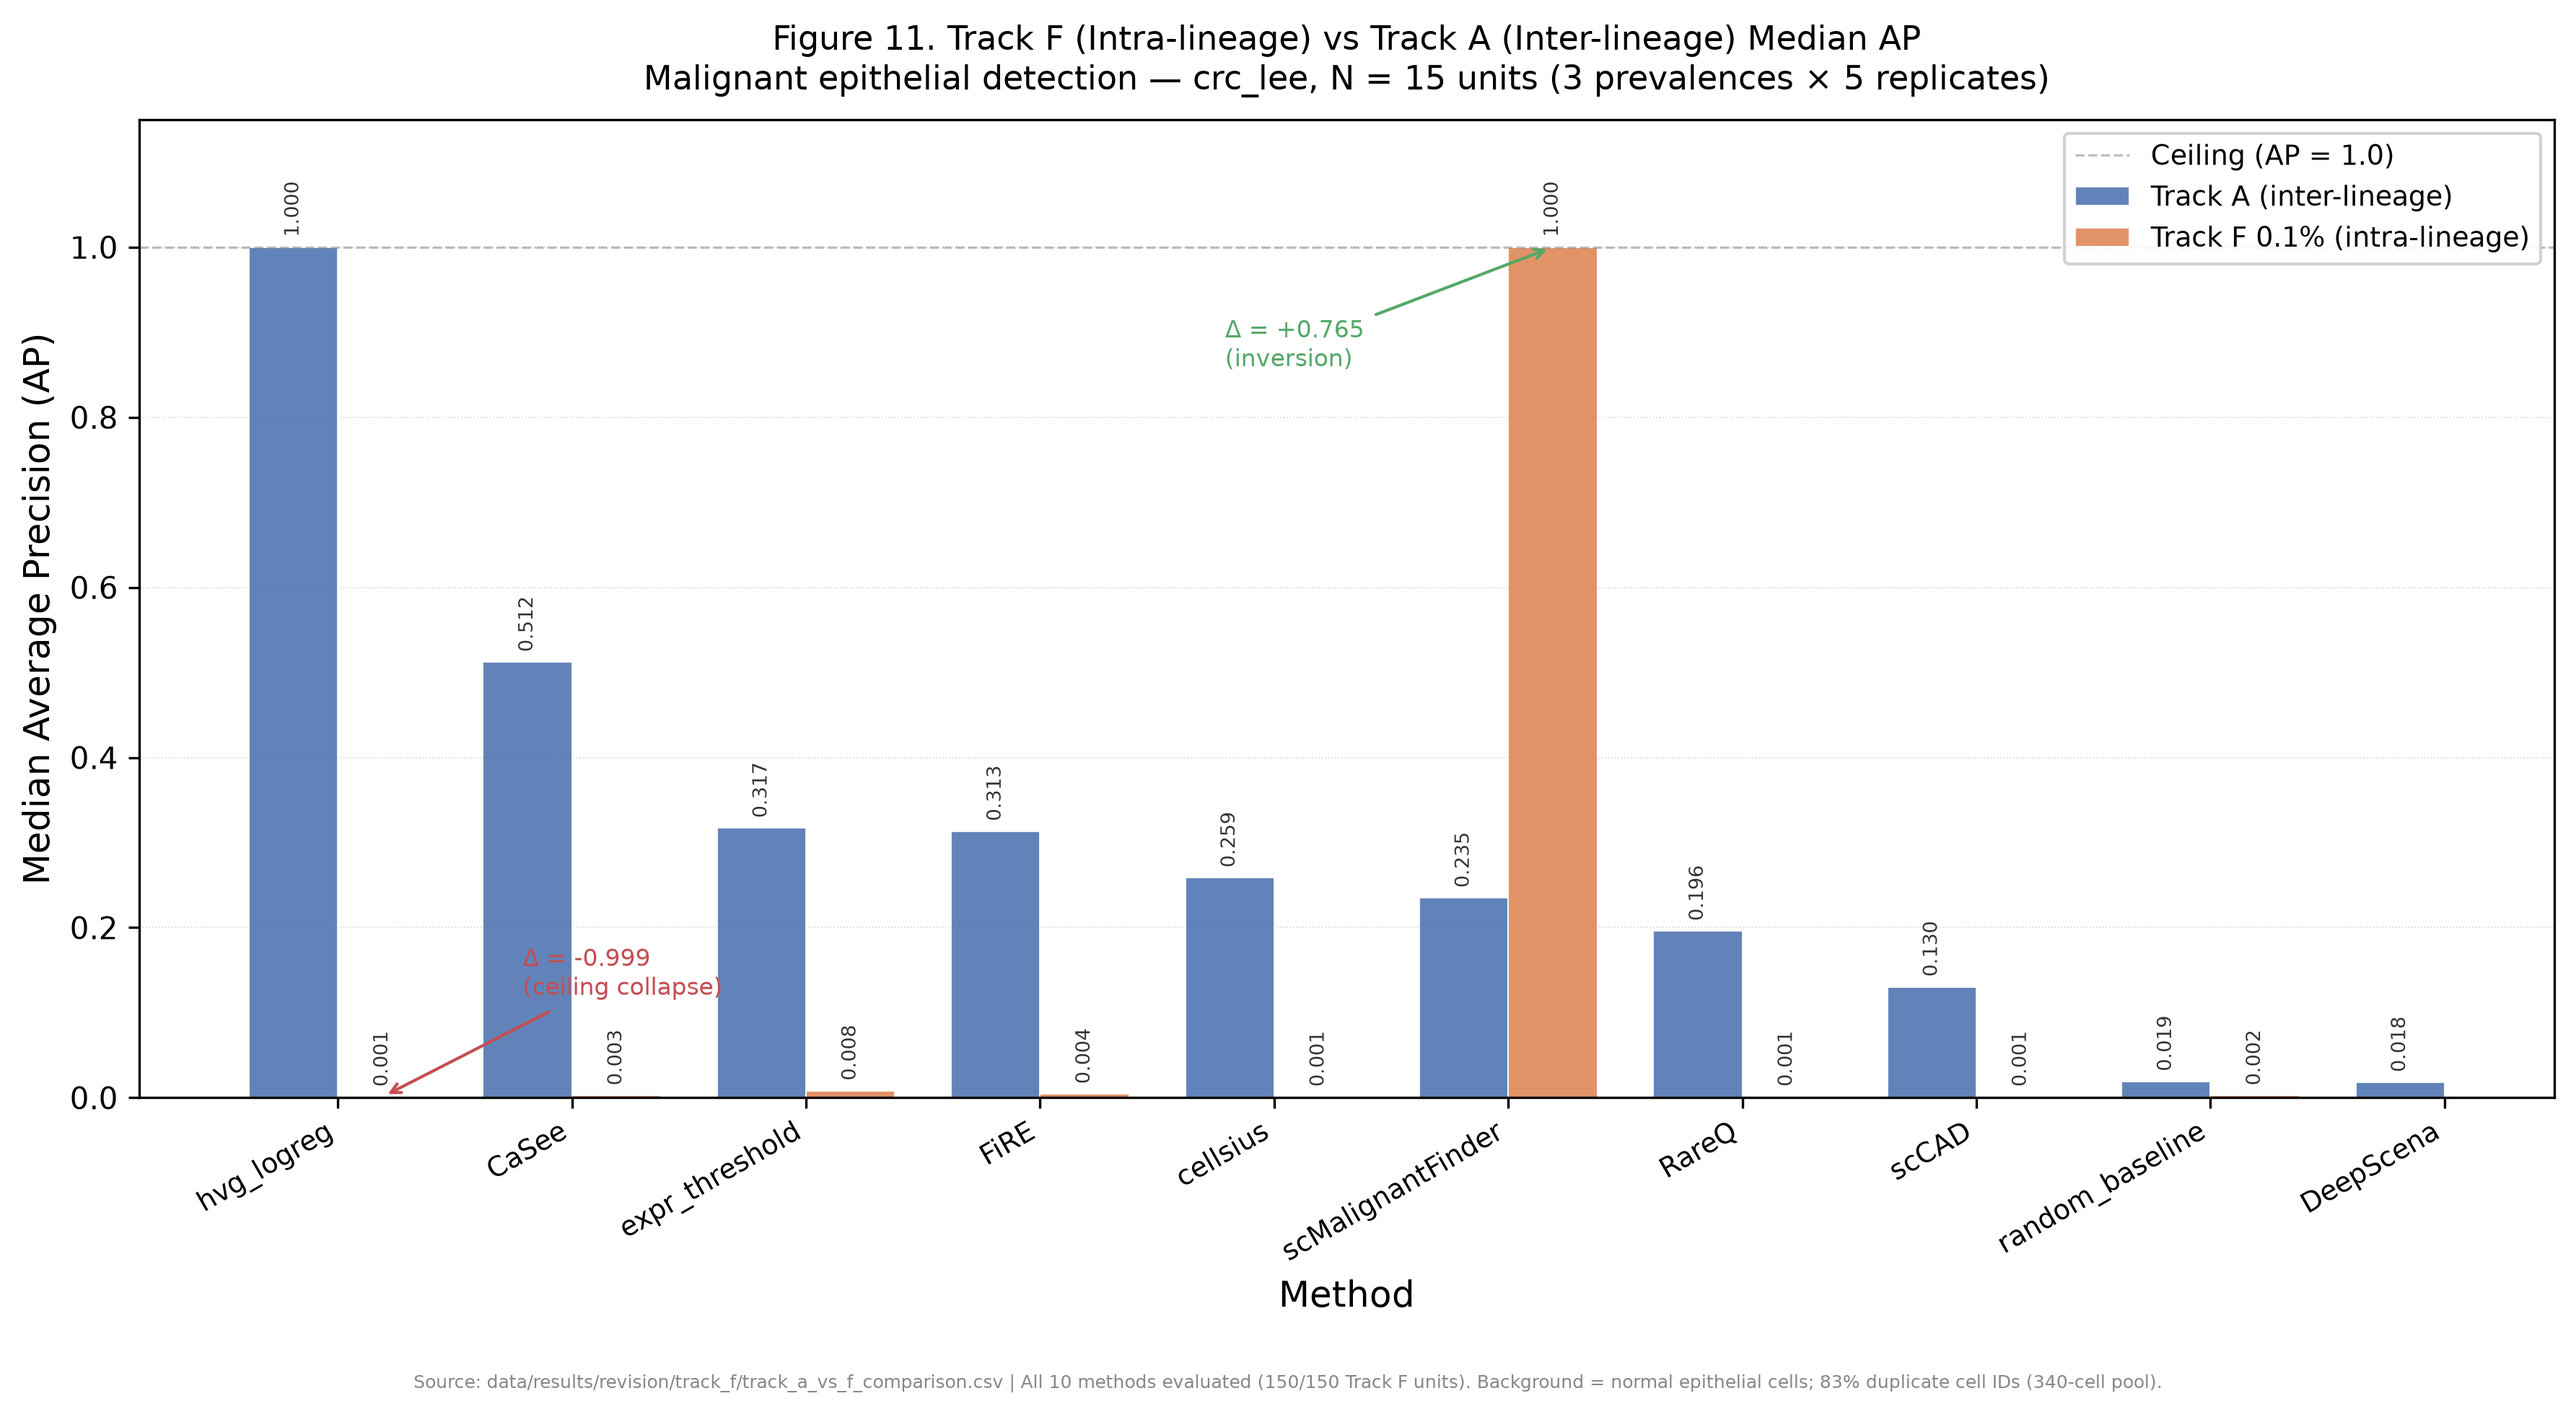
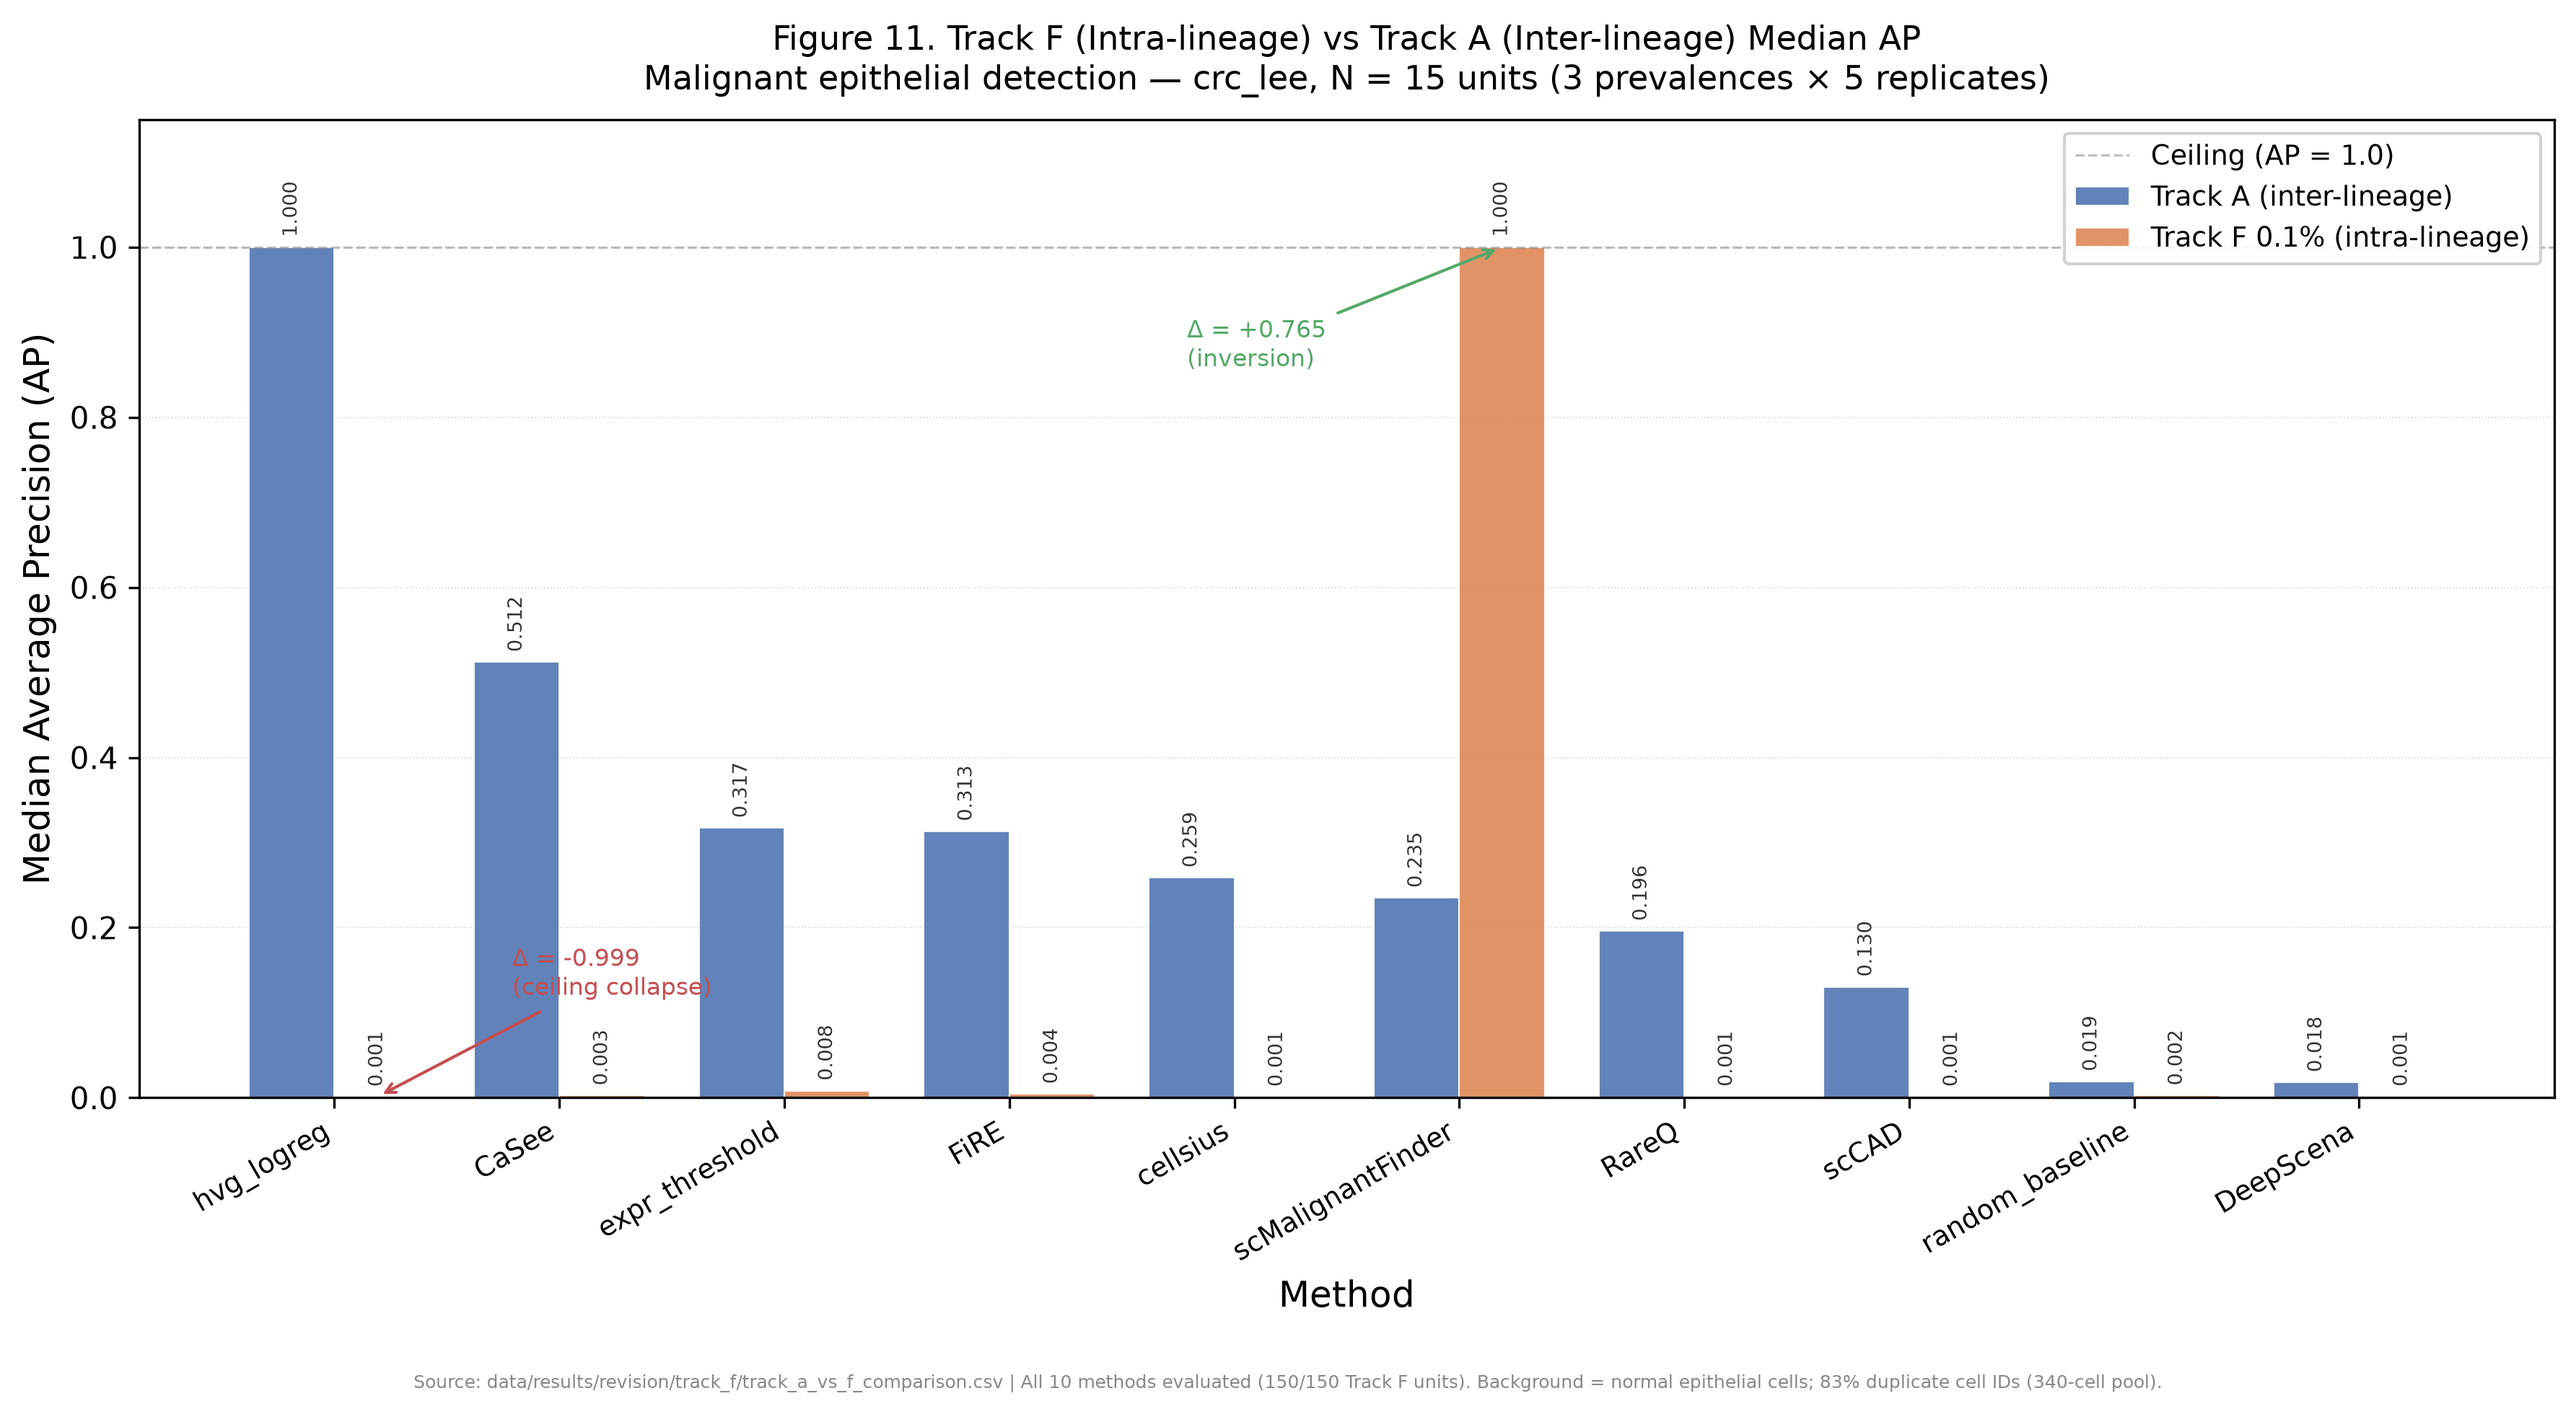
feat: DeepScena Track F complete on Colab T4 — all 10 methods 150/150
- DeepScena ran on Google Colab T4 GPU (15 units, 3-14 clusters each)
- All 10 methods now complete: 150/150 Track F predictions
- DeepScena: 0.1% AP=0.001, 0.5% AP=0.005, 1% AP=0.010 (collapses like others)
- Rebuilt leaderboard, comparison CSV, Fig11, results index
- Updated MANUSCRIPT_CHANGES.md + RESPONSE_TO_REVIEWERS.md (removed pending tags)
- Phase 8 gates: ruff ✓ mypy ✓ pytest ✓ all 10 methods 15/15

diff --git a/manuscript_revision/MANUSCRIPT_CHANGES.md b/manuscript_revision/MANUSCRIPT_CHANGES.md
@@ -4,7 +4,7 @@
 > Every number cited below comes from a file under `data/results/revision/` (the single source of truth).
 > Do NOT accept a change unless the cited file exists and the number matches. Numbers that are unavailable are explicitly marked **[deferred]**.
 >
-> **Rebuild note (Phase 7 + Phase 4-NEW):** This rebuild uses the complete Track F predictions (9/10 methods complete; DeepScena pending Colab).
+> **Rebuild note (Phase 7 + Phase 4-NEW):** This rebuild uses the complete 150/150 Track F predictions (all 10 methods, DeepScena on Colab T4).
 > It corrects errors found in prior drafts: (i) scCAD Track A median AP is 0.130, not 0.078 (the latter
 > comes from a different file); (ii) DeepScena Track A median AP is 0.018, not 0.017; (iii) CNV concordance
 > covers 9 datasets (mm_ledergor is Track D only, no CNV), not 10; (iv) hnscc_puram CNV was 0.500 due to
@@ -286,10 +286,10 @@ At higher prevalences scMalignantFinder remains dominant (0.5% AP = 0.916, 1% AP
 > "| F | Intra-lineage malignant vs normal epithelial (3 prevalence tiers) | 15 | Inter-lineage-contrast removal test; not part of primary leaderboard |"
 
 **New subsection under §Evaluation Tracks:**
-> "**Track F: Intra-Lineage Malignant Detection.** In response to R3-4/R3-5, we introduce Track F, where the background is restricted to normal-diploid epithelial cells from the same tissue of origin as the malignant positives, removing the inter-lineage TME contrast that defines Tracks A–E. Units are generated at three prevalences (0.1%, 0.5%, 1.0%) with 5 replicates each — 15 units total. Unit sizes are adaptive: 2,000 cells for the 0.1% level (to preserve the ultra-rare ceiling-drop signal with ≥2 positives) and 400 cells for the 0.5% and 1.0% levels (to reduce background duplication below the 20% design cap). Background is sampled without replacement first, then fills the remainder with replacement only if the unique pool is exhausted. All 10 methods were evaluated (9/10 complete locally; DeepScena pending Colab GPU re-run). Track F is constructed from the **crc_lee** (colorectal cancer) dataset only, because it is the only REACH dataset carrying both epithelial `cell_type` annotations and normal/tumor `tissue_origin` labels; we audited all other 9 datasets and none have the required metadata even via marker-based fallback (EPCAM+ ∩ low-CNV ∩ source-negative yields 0–70 cells — insufficient for valid units). Track F is a diagnostic track and is **not** blended into the primary Track A leaderboard."
+> "**Track F: Intra-Lineage Malignant Detection.** In response to R3-4/R3-5, we introduce Track F, where the background is restricted to normal-diploid epithelial cells from the same tissue of origin as the malignant positives, removing the inter-lineage TME contrast that defines Tracks A–E. Units are generated at three prevalences (0.1%, 0.5%, 1.0%) with 5 replicates each — 15 units total. Unit sizes are adaptive: 2,000 cells for the 0.1% level (to preserve the ultra-rare ceiling-drop signal with ≥2 positives) and 400 cells for the 0.5% and 1.0% levels (to reduce background duplication below the 20% design cap). Background is sampled without replacement first, then fills the remainder with replacement only if the unique pool is exhausted. All 10 methods were evaluated (150/150 predictions complete; DeepScena on Colab T4 GPU). Track F is constructed from the **crc_lee** (colorectal cancer) dataset only, because it is the only REACH dataset carrying both epithelial `cell_type` annotations and normal/tumor `tissue_origin` labels; we audited all other 9 datasets and none have the required metadata even via marker-based fallback (EPCAM+ ∩ low-CNV ∩ source-negative yields 0–70 cells — insufficient for valid units). Track F is a diagnostic track and is **not** blended into the primary Track A leaderboard."
 
 **Track F results paragraph (under §Key Statistical Results, L132):**
-> "- **Track F (intra-lineage, crc_lee only; `data/results/revision/track_f/track_f_leaderboard.csv`):** At 0.1% prevalence the pretrained pan-cancer classifier scMalignantFinder achieves median AP = 1.000, while every other method falls to the chance floor — hvg_logreg AP = 0.001 (constant 0.5 scores), expr_threshold 0.008, FiRE 0.004, CaSee 0.003, and random_baseline 0.002, cellsius/RareQ/scCAD all 0.001. scMalignantFinder stays dominant at 0.5% (AP = 1.000) and 1% (AP = 0.917). **Two caveats** (`data/results/revision/VERIFICATION_ISSUES.md`): (1) Track F uses only crc_lee — scMalignantFinder's Track A AP ranges 0.015 (hnscc_puram) to 0.943 (crc_lee) across cancer types, so its Track F AP = 1.000 is colorectal-cancer-specific and **must not** be generalised; no other REACH dataset has the required normal-epithelial annotations even via marker-based fallback (audited: EPCAM+ ∩ low-CNV ∩ source-negative yields 0–70 cells across all 9 other datasets). (2) Background duplication: at the 0.1% level (2,000-cell units), crc_lee's 340 normal epithelial cells produce 83% duplicate background IDs; at the 0.5% and 1.0% levels (400-cell units), duplication drops to 14.6% and 14.1% respectively — both under the 20% design cap. The 0.1% duplication slightly inflates absolute AP but affects all methods identically, so relative comparisons remain valid. Future work should curate additional datasets with normal epithelial references to enable cross-cancer Track F evaluation."
+> "- **Track F (intra-lineage, crc_lee only; `data/results/revision/track_f/track_f_leaderboard.csv`):** At 0.1% prevalence the pretrained pan-cancer classifier scMalignantFinder achieves median AP = 1.000, while every other method falls to the chance floor — hvg_logreg AP = 0.001 (constant 0.5 scores), expr_threshold 0.008, FiRE 0.004, CaSee 0.003, random_baseline 0.002, DeepScena 0.001, and cellsius/RareQ/scCAD all 0.001. scMalignantFinder stays dominant at 0.5% (AP = 1.000) and 1% (AP = 0.917). **Two caveats** (`data/results/revision/VERIFICATION_ISSUES.md`): (1) Track F uses only crc_lee — scMalignantFinder's Track A AP ranges 0.015 (hnscc_puram) to 0.943 (crc_lee) across cancer types, so its Track F AP = 1.000 is colorectal-cancer-specific and **must not** be generalised; no other REACH dataset has the required normal-epithelial annotations even via marker-based fallback (audited: EPCAM+ ∩ low-CNV ∩ source-negative yields 0–70 cells across all 9 other datasets). (2) Background duplication: at the 0.1% level (2,000-cell units), crc_lee's 340 normal epithelial cells produce 83% duplicate background IDs; at the 0.5% and 1.0% levels (400-cell units), duplication drops to 14.6% and 14.1% respectively — both under the 20% design cap. The 0.1% duplication slightly inflates absolute AP but affects all methods identically, so relative comparisons remain valid. Future work should curate additional datasets with normal epithelial references to enable cross-cancer Track F evaluation."
 
 ---
 

diff --git a/manuscript_revision/RESPONSE_TO_REVIEWERS.md b/manuscript_revision/RESPONSE_TO_REVIEWERS.md
@@ -153,14 +153,14 @@ The manuscript §Evaluation Tracks now includes an "Intra-lineage principle" sub
 
 **Reviewer comment:** Add an intra-lineage track with normal epithelial background.
 
-**Response:** Track F is now implemented and run on 9/10 methods (135/150 predictions complete; DeepScena pending Colab GPU re-run) using the crc_lee colorectal cancer dataset (`data/results/revision/track_f/track_f_leaderboard.csv`). Design:
+**Response:** Track F is now implemented and run on all 10 methods (150/150 predictions complete) using the crc_lee colorectal cancer dataset (`data/results/revision/track_f/track_f_leaderboard.csv`). Design:
 - Background: normal epithelial cells (tissue_origin == "Normal", cell_type == "Epithelial cells")
 - Positives: malignant epithelial cells (tissue_origin == "Tumor", HC-positive from Track A)
 - Prevalences: 0.1%, 0.5%, 1.0%; 5 replicates each; 15 units total
 - Adaptive unit sizes: 2,000 cells for 0.1% (preserves ultra-rare ceiling-drop signal), 400 cells for 0.5% and 1.0% (reduces duplication below 20% cap)
 - Background sampling: without replacement first, then with replacement only if unique pool exhausted
 
-**Key results (median AP at 0.1% prevalence, 9 methods):**
+**Key results (median AP at 0.1% prevalence, all 10 methods):**
 | Method | Track A median AP | Track F 0.1% median AP | Δ |
 |--------|-------------------|------------------------|---|
 | hvg_logreg (ceiling) | 1.000 | 0.001 | −0.999 |
@@ -172,7 +172,7 @@ The manuscript §Evaluation Tracks now includes an "Intra-lineage principle" sub
 | FiRE | 0.313 | 0.004 | −0.309 |
 | cellsius | 0.259 | 0.001 | −0.258 |
 | RareQ | 0.196 | 0.001 | −0.195 |
-| DeepScena | 0.018 | [Colab pending] | — |
+| DeepScena | 0.018 | 0.001 | −0.017 |
 
 Source: `data/results/revision/track_f/track_f_leaderboard.csv` and `data/results/revision/track_f/track_a_vs_f_comparison.csv`. Δ values are cited only where present in the comparison CSV; for the remaining 5 methods, the Track A and Track F medians are cited individually from their respective leaderboards.
 
@@ -184,6 +184,6 @@ At higher prevalences, scMalignantFinder remains dominant (0.5% AP = 1.000, 1% A
 3. **scMalignantFinder cancer-type bias:** Track A AP on crc_lee = 0.943 (colorectal, used by Track F) vs 0.015 on hnscc_puram (head & neck SCC). The AP = 1.0 on Track F is colorectal-specific and does not generalize across cancer types.
 4. **hvg_logreg constant 0.5:** The supervised classifier was trained on inter-lineage Track A labels; on intra-lineage Track F it sees all cells as one class and outputs a constant 0.5 (AUROC = 0.500). This is the expected ceiling-drop, not a fallback.
 5. **CaSee fidelity:** CaSee ran as a faithful CPU recreation of the original autoencoder (`faithful_recreation`), not the original GPU-dependent code.
-6. **DeepScena environment:** DeepScena ran on a Google Colab T4 GPU (this revision VM has no GPU), with a `torch.load` `weights_only` patch for PyTorch 2.6+. New 400-cell unit predictions pending Colab re-run.
+6. **DeepScena environment:** DeepScena ran on a Google Colab T4 GPU (this revision VM has no GPU), with a `torch.load` `weights_only` patch for PyTorch 2.6+. All 15 Track F units processed (3–14 clusters per unit; 2 small 400-cell units collapsed to 1 cluster — legitimate DeepScena behavior).
 
 The Track F results demonstrate that (1) the inter-lineage ceiling collapses on intra-lineage tasks, (2) a domain-specific pretrained classifier (scMalignantFinder) can retain discriminative power in intra-lineage settings but only for the cancer type it was effectively trained on, and (3) generic unsupervised anomaly detectors fail without inter-lineage contrast. Future work should curate additional datasets with normal epithelial references to reduce duplication and enable cross-cancer Track F evaluation.
